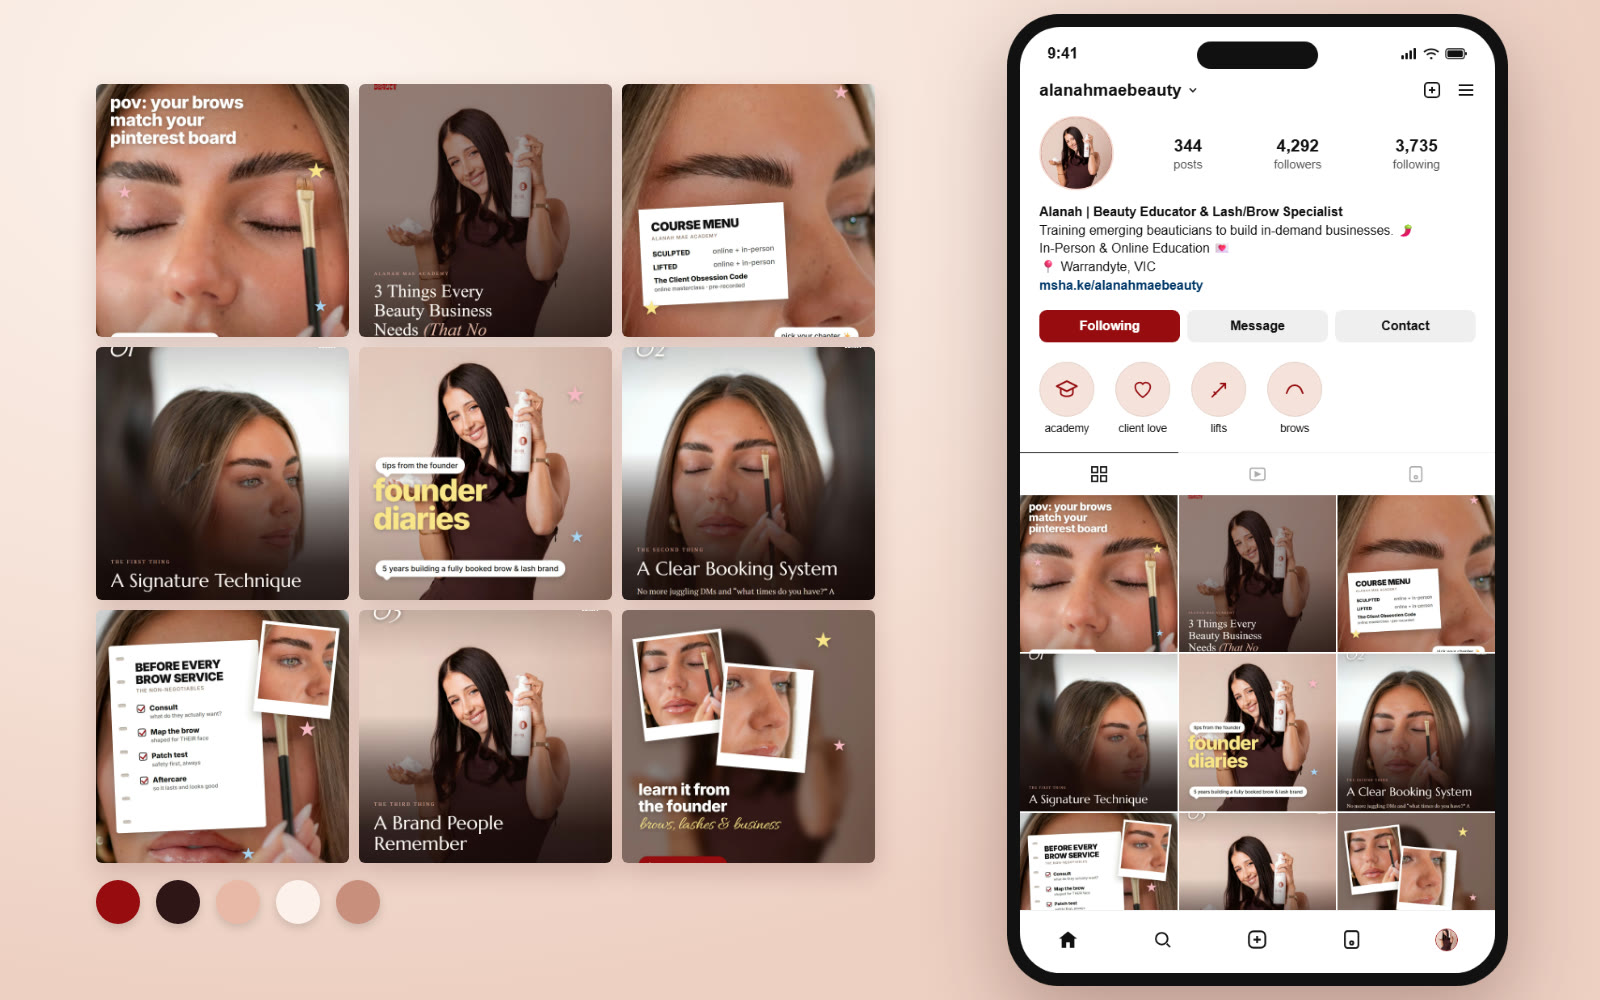
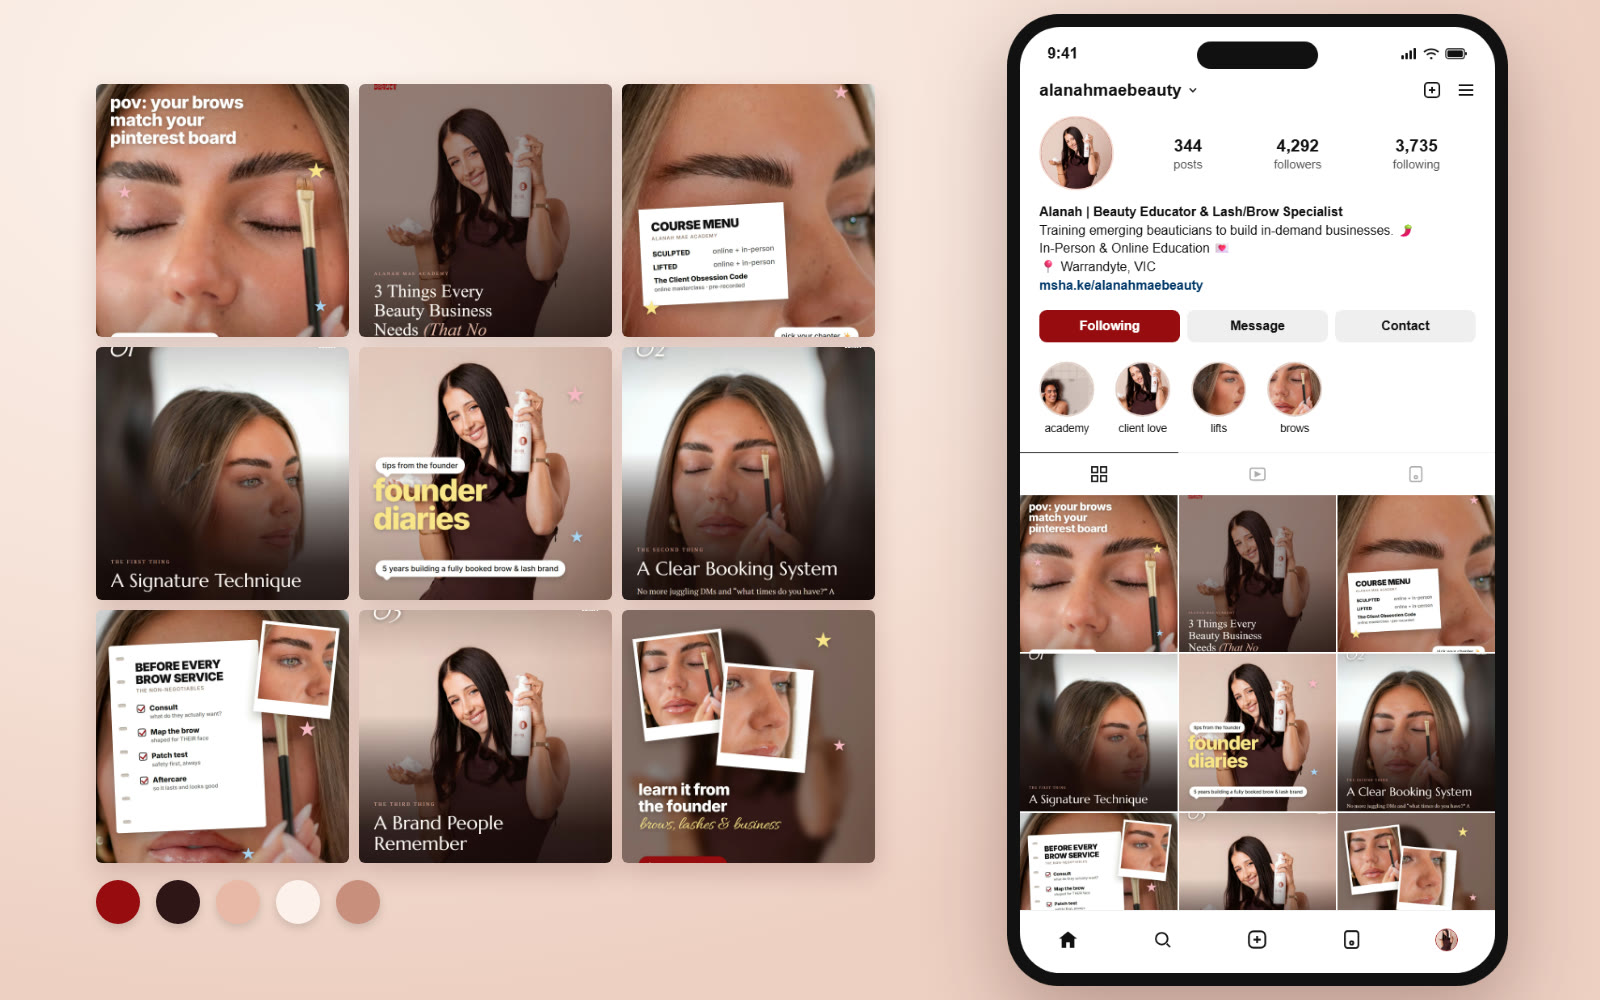
Resume (AMB): feed concept right after carousels, real photos in highlights

Changed region(s): [[0.625, 0.341, 0.8438, 0.434]]

diff --git a/cv/index.html b/cv/index.html
@@ -603,8 +603,8 @@ footer{background:#031f26;color:rgba(255,255,255,.6);font-size:13px;padding:18px
 </div>
 <div class="toast" id="toast" role="status"></div>
 
-<script src="data.js?v=20261026g"></script>
-<script src="jobs.js?v=20261026g"></script>
+<script src="data.js?v=20261026h"></script>
+<script src="jobs.js?v=20261026h"></script>
 <script>
 (function(){
 const B = window.RESUME_BASE, JOBS = window.RESUME_JOBS;
@@ -647,7 +647,7 @@ if (J.heroPhoto2){ $("#heroPhoto2").src = IMG + J.heroPhoto2; const hv = $(".her
   const lvl = () => { hv.style.paddingTop = "0"; if (innerWidth > 900) hv.style.paddingTop = Math.max(0, $("#hName").getBoundingClientRect().top - hv.getBoundingClientRect().top) + "px"; };
   addEventListener("resize", lvl); addEventListener("load", lvl); setTimeout(lvl, 400); }
 if (J.crown) $("#top").classList.add("has-crown");
-if (J.heroCarousels){ const hc = $("#heroCar"); hc.hidden = false; hc.innerHTML = J.heroCarousels.map(c => `<div class="hc-row"><div class="hc-t">${c.title.includes(" · ") ? `<span class="hc-n">${esc(c.title.split(" · ")[0])}</span><div class="hc-name">${esc(c.title.split(" · ").slice(1).join(" · "))}</div>${c.sub ? `<div class="hc-sub">${esc(c.sub)}</div>` : ""}` : esc(c.title)}</div><div class="hc-strip">${c.images.map((f, i) => `<img src="${IMG + f}" alt="${esc(c.title)}, slide ${i + 1}" loading="lazy">`).join("")}</div></div>`).join(""); }
+if (J.heroCarousels){ const hc = $("#heroCar"); hc.hidden = false; hc.innerHTML = J.heroCarousels.map(c => `<div class="hc-row"><div class="hc-t">${c.title.includes(" · ") ? `<span class="hc-n">${esc(c.title.split(" · ")[0])}</span><div class="hc-name">${esc(c.title.split(" · ").slice(1).join(" · "))}</div>${c.sub ? `<div class="hc-sub">${esc(c.sub)}</div>` : ""}` : esc(c.title)}</div><div class="hc-strip">${c.images.map((f, i) => `<img src="${IMG + f}" alt="${esc(c.title)}, slide ${i + 1}" loading="lazy">`).join("")}</div></div>`).join(""); if (J.heroFeed) hc.insertAdjacentHTML("beforeend", stacked(J.heroFeed)); }
 if (J.codeWord){ const cw = document.createElement("div"); cw.className = "codeword"; cw.textContent = J.codeWord; $("#hSub").after(cw); }
 if (J.headlinePill) $("#hRole").classList.add("pill");
 if (J.headlineBadge){ const row = document.createElement("div"); row.className = "rolerow"; $("#hRole").before(row); row.appendChild($("#hRole")); const b = document.createElement("span"); b.className = "yrs"; b.textContent = J.headlineBadge; row.appendChild(b); }

diff --git a/cv/jobs.js b/cv/jobs.js
@@ -330,13 +330,13 @@ window.RESUME_JOBS = {
       { req: "An interest in beauty and social media is a bonus", proof: "More than an interest: I am a recruiter and coordinator for a National Pageant in Australia, responding to contestants and applicants every day, and graphic design is part of my daily work too, so beauty and creative content are both close to home.", status: "yes", tab: "designs", cta: "See my pageant recruiter portal" }
     ],
     feedCredit: "Maria Simbajon, your creative social media manager and virtual assistant",
+    heroFeed: "ambFeed",
     heroCarousels: [
       { title: "Carousel 1 · Gen-Z Style", sub: "Photo-led, trendy · “Brow Era”", images: ["amb-gz-1.jpg", "amb-gz-2.jpg", "amb-gz-3.jpg", "amb-gz-4.jpg", "amb-gz-5.jpg"] },
       { title: "Carousel 2 · Conservative Business Style", sub: "Brown palette · “3 Things Every Beauty Business Needs”", images: ["amb-c1-1.jpg", "amb-c1-2.jpg", "amb-c1-3.jpg", "amb-c1-4.jpg", "amb-c1-5.jpg"] }
     ],
     workSections: [
       { type: "block", key: "ambReel" },
-      { type: "block", key: "ambFeed" },
       { type: "block", key: "ambFeedMore" },
       { type: "block", key: "designs" },
       { type: "block", key: "reels" },
